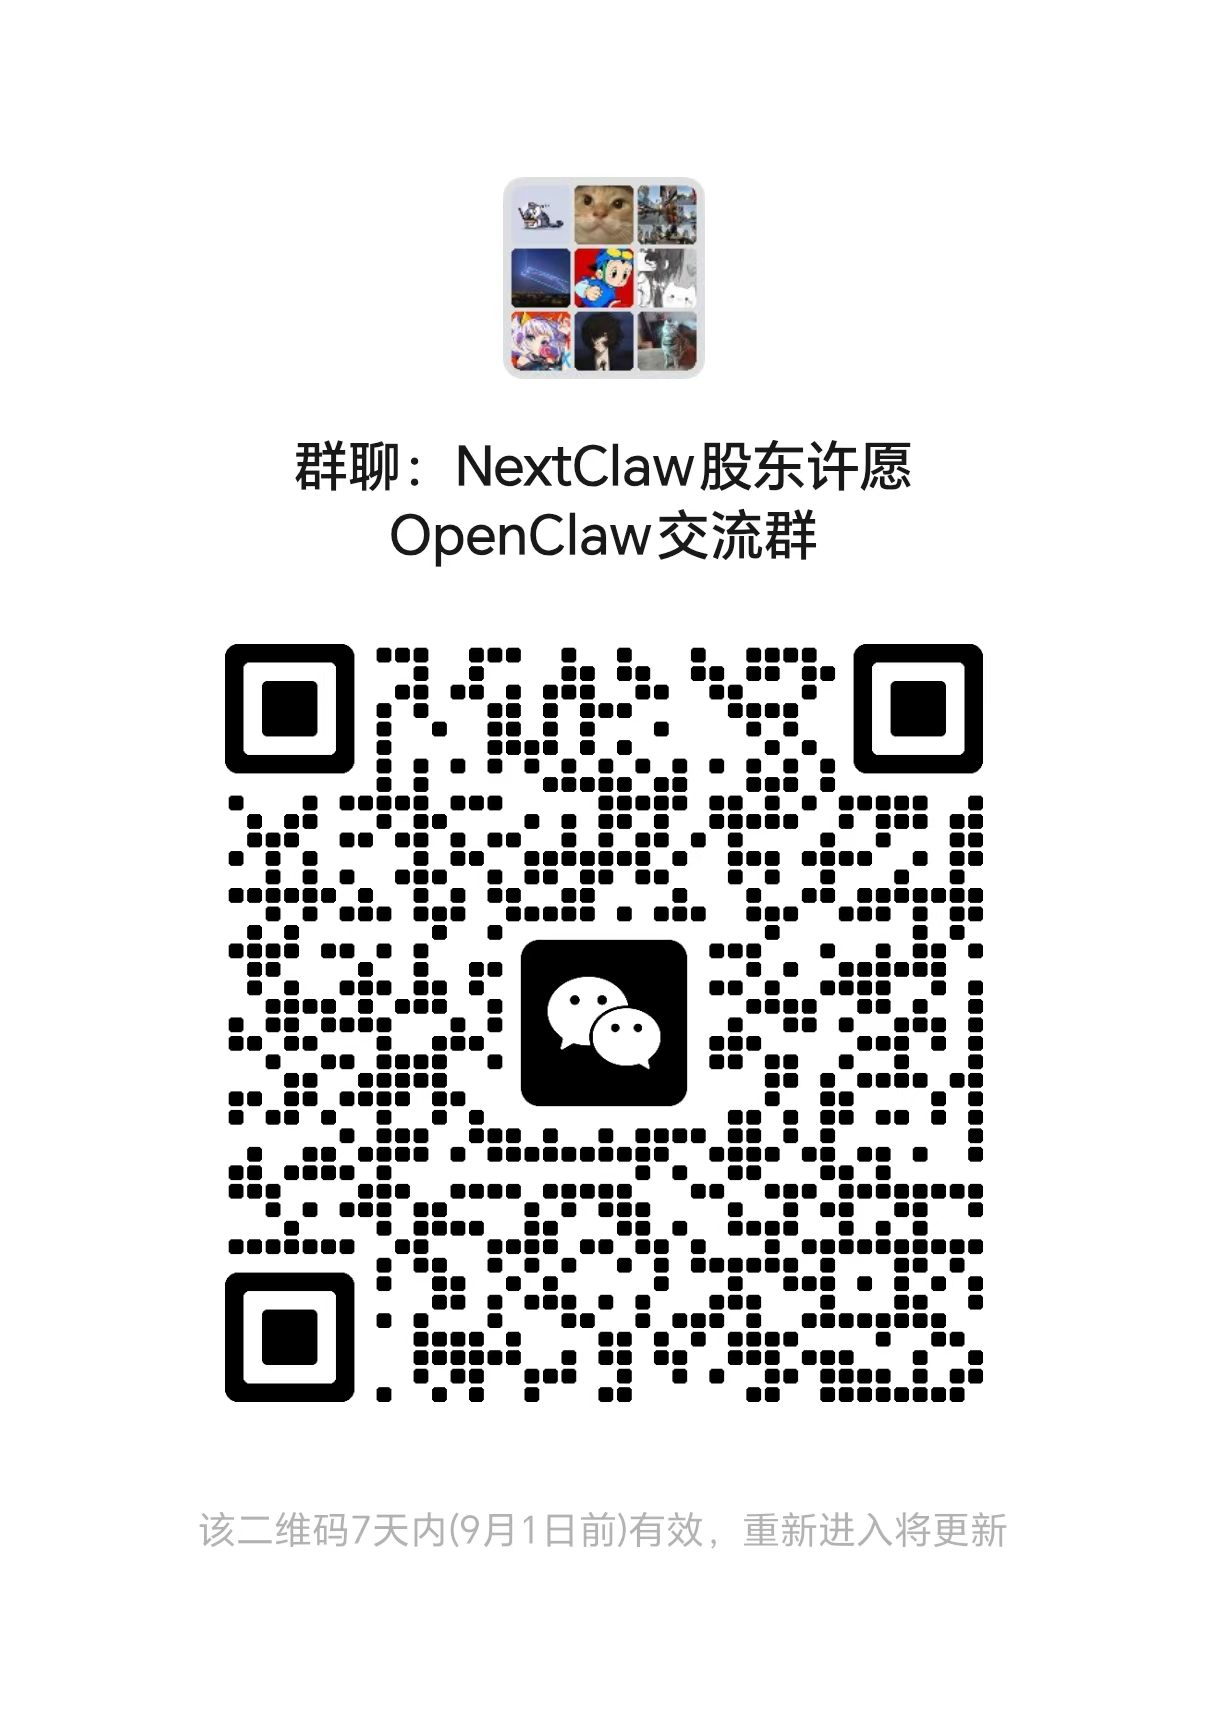
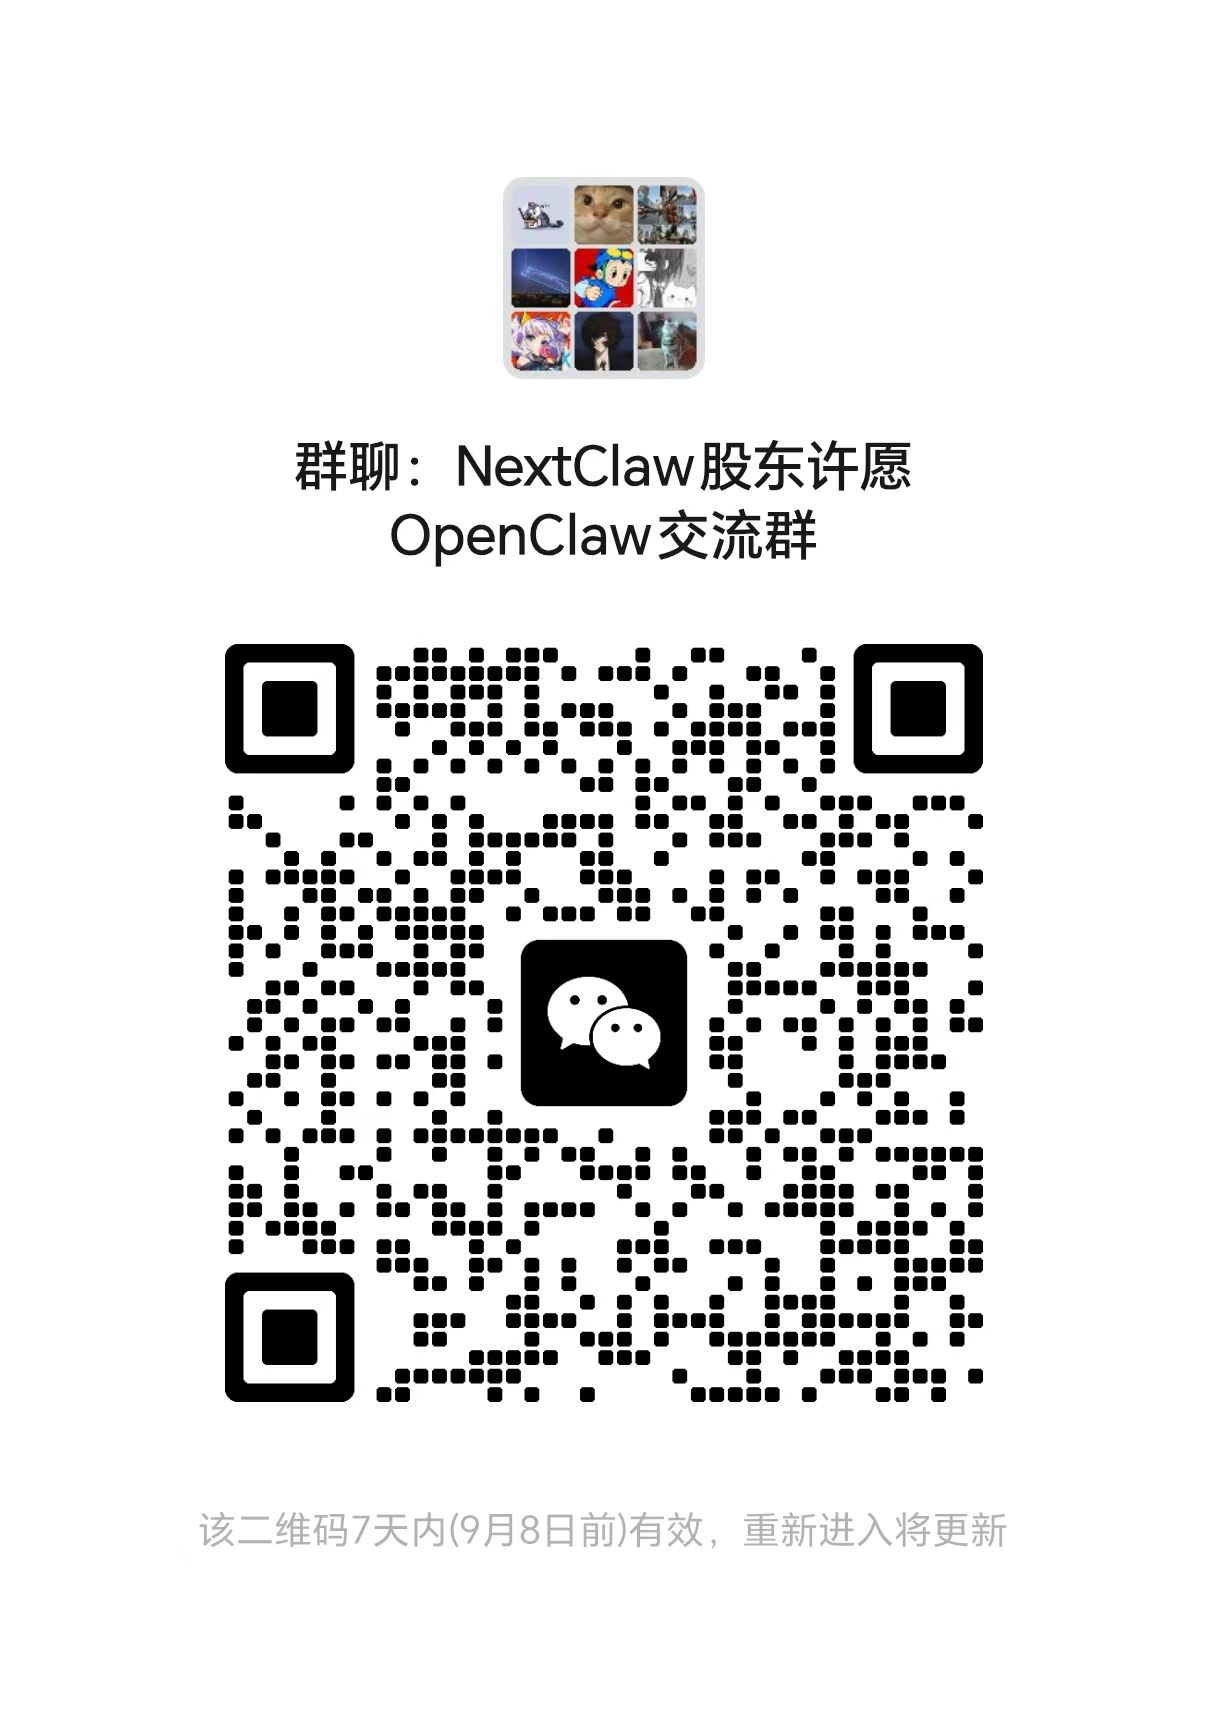
chore(landing): update WeChat group QR code

Changed region(s): [[0.1839, 0.3741, 0.8277, 0.8106], [0.4292, 0.873, 0.4598, 0.9042]]

diff --git a/apps/landing/src/shared/lib/landing-content/landing-route.utils.ts b/apps/landing/src/shared/lib/landing-content/landing-route.utils.ts
@@ -34,7 +34,7 @@ export const LOCALE_OPTIONS: Array<{ value: Locale; label: string }> = [
 export const LINKS: Record<'github' | 'npm' | 'wechatGroupImage', string> & { docs: Record<Locale, string> } = {
   github: 'https://github.com/Peiiii/nextclaw',
   npm: 'https://www.npmjs.com/package/nextclaw',
-  wechatGroupImage: '/contact/nextclaw-contact-wechat-group-2026-08-25.png',
+  wechatGroupImage: '/contact/nextclaw-contact-wechat-group-2026-09-01.png',
   docs: {
     en: 'https://docs.nextclaw.io/en/',
     zh: 'https://docs.nextclaw.io/zh/'
